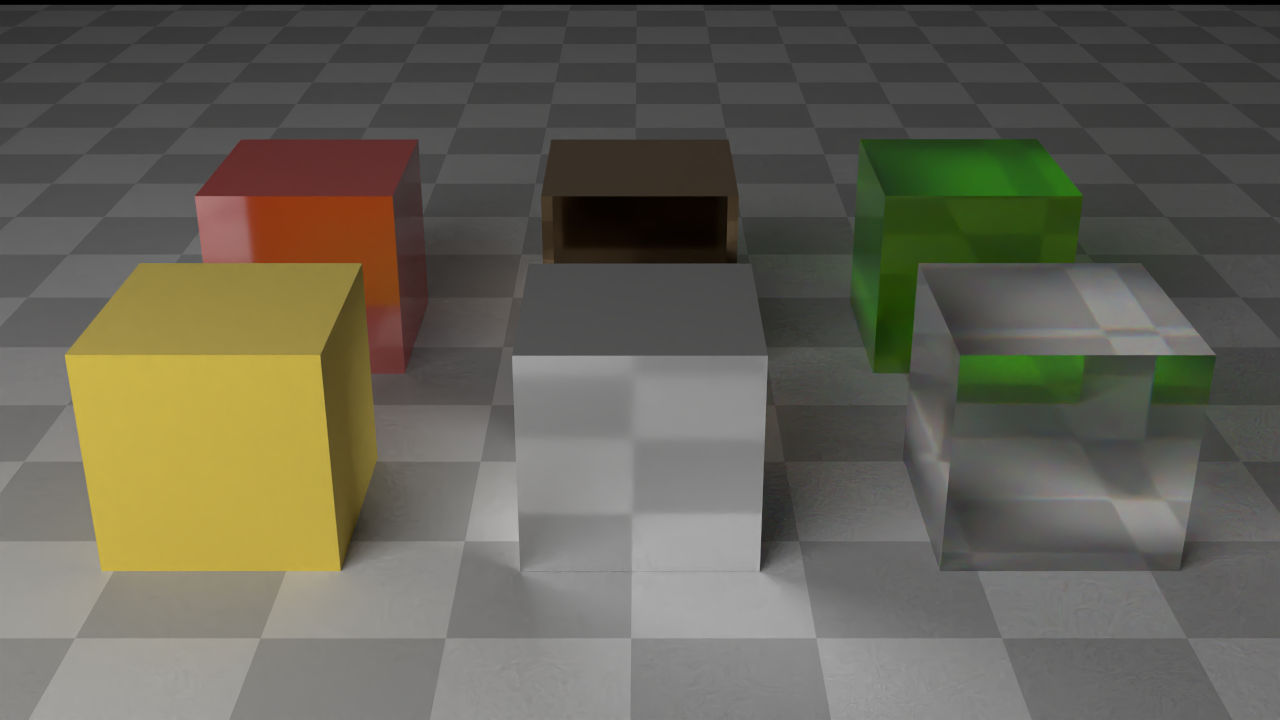
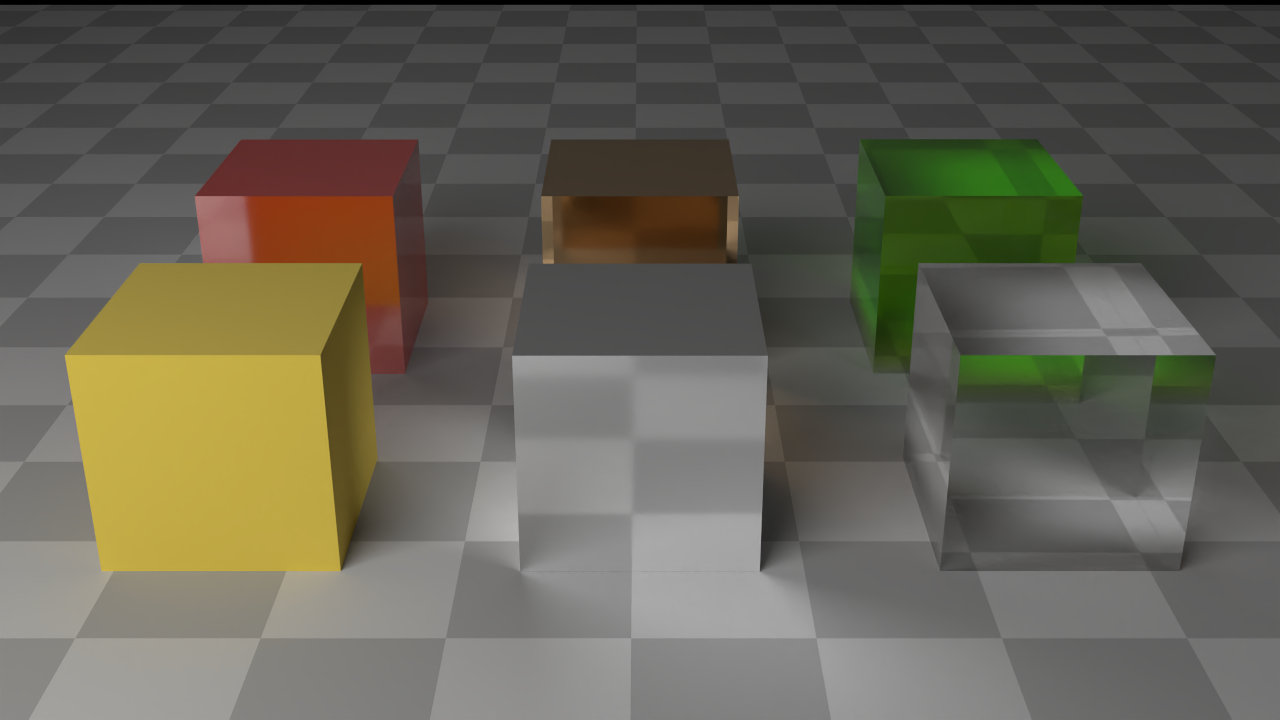
added radial anisotropy

Changed region(s): [[0.4062, 0.275, 0.5938, 0.3667]]

diff --git a/src/BRDF.cpp b/src/BRDF.cpp
@@ -138,7 +138,19 @@ float SmithIsotropicGGXShadowing(float alpha, float vsq, float vn)
   float lambda = (std::sqrt(1.0f + alpha * alpha * (vsq / (vn * vn) - 1.0f)) - 1.0f) * 0.5f;
   return 1.0f / (1.0f + lambda);
 }
-Vec3f sampleGGXVNDFGlobal(RNG& rng, const Vec3f& normal, float alpha, const Vec3f& dir1, float* pDensity)
+
+float DGGX(float nh, float th, float bh, float alpha_t, float alpha_b)
+{
+  float D = float(Hasty::InvPi) / (alpha_t * alpha_b * Hasty::square(Hasty::square(th / alpha_t) + Hasty::square(bh / alpha_b) + Hasty::square(nh)));
+  return D;
+}
+// "glass ground unknown"
+float smithGGX(float nv, float tv, float bv, float alpha_t, float alpha_b)
+{
+  float lambda = 0.5f * ( std::sqrt(1.0f + (square(alpha_t * tv) +square(alpha_b * bv))/square(nv))  - 1.0f);
+  return 1.0f / (1.0f + lambda);
+}
+Vec3f sampleGGXVNDFGlobal(RNG& rng, const Vec3f& normal, float alpha_t, float alpha_b, const Vec3f& tangent, const Vec3f& bitangent, const Vec3f& dir1, float* pDensity)
 {
   if (dir1.dot(normal) <= 0.0f)
   {
@@ -150,25 +162,23 @@ Vec3f sampleGGXVNDFGlobal(RNG& rng, const Vec3f& normal, float alpha, const Vec3
   Vec3f NeGlobal;
   do
   {
-    RodriguesRotation<float, Vec3f> rotation(Vec3f(0.0f, 0.0f, 1.0f), normal);
+    Vec3f Ve(tangent.dot(dir1), bitangent.dot(dir1), normal.dot(dir1));
+    Vec3f Ne = sampleGGXVNDF(Ve, alpha_t, alpha_b, rng.uniform01f(), rng.uniform01f());
 
-    Vec3f Ve = rotation.applyInverse(dir1);
-    Vec3f Ne = sampleGGXVNDF(Ve, alpha, alpha, rng.uniform01f(), rng.uniform01f());
-
-    NeGlobal = rotation * Ne;
+    NeGlobal = tangent * Ne[0] + bitangent * Ne[1] + normal * Ne[2];
     NeGlobal.normalize();
   } while (NeGlobal.dot(dir1) <= 0.0f);
 
   Vec3f dir2 = reflectAcross(dir1, NeGlobal);
   dir2.normalize();
   // V = dir1, N = H
-  float G1 = SmithIsotropicGGXShadowing(alpha, dir1.normSq(), dir1.dot(normal));
-  //assert(dir1.dot(NeGlobal) >= 0.0f);
-  float pDensityH = G1 * dir1.dot(NeGlobal) * DGGX(normal.dot(NeGlobal), alpha) / dir1.dot(normal);
+  float G1 = smithGGX(normal.dot(dir1), tangent.dot(dir1), bitangent.dot(dir1), alpha_t, alpha_b);
+  float D_ggx = DGGX(normal.dot(NeGlobal), tangent.dot(NeGlobal), bitangent.dot(NeGlobal), alpha_t, alpha_b);
+  float pDensityH = G1 * dir1.dot(NeGlobal) * D_ggx / dir1.dot(normal);
   (*pDensity) = pDensityH / (1e-7f + 4.0f * std::abs(dir1.dot(NeGlobal)));
   return dir2;
 }
-float sampleGGXVNDFGlobalDensity(const Vec3f& normal, float alpha, const Vec3f& dir1, const Vec3f& dir2)
+float sampleGGXVNDFGlobalDensity(const Vec3f& normal, float alpha_t, float alpha_b, const Vec3f& tangent, const Vec3f& bitangent, const Vec3f& dir1, const Vec3f& dir2)
 {
   if (dir1.dot(normal) <= 0.0f)
   {
@@ -176,8 +186,9 @@ float sampleGGXVNDFGlobalDensity(const Vec3f& normal, float alpha, const Vec3f& 
     return 0.0f;
   }
   Vec3f NeGlobal = (dir1 + dir2).normalized();
-  float G1 = SmithIsotropicGGXShadowing(alpha, dir1.normSq(), dir1.dot(normal));
-  float pDensityH = G1 * std::max(0.0f, dir1.dot(NeGlobal)) * DGGX(normal.dot(NeGlobal), alpha) / dir1.dot(normal);
+  float G1 = smithGGX(normal.dot(dir1), tangent.dot(dir1), bitangent.dot(dir1), alpha_t, alpha_b);
+  float D_ggx = DGGX(normal.dot(NeGlobal), tangent.dot(NeGlobal), bitangent.dot(NeGlobal), alpha_t, alpha_b);
+  float pDensityH = G1 * std::max(0.0f, dir1.dot(NeGlobal)) * D_ggx / dir1.dot(normal);
   return pDensityH / (1e-7f + 4.0f * std::abs(dir1.dot(NeGlobal)));
 }
 
@@ -403,8 +414,8 @@ float GlassBTDF::getIndexOfRefraction(int wavelength) const
 }
 
 
-PrincipledBRDF::PrincipledBRDF(std::unique_ptr<ITextureMap3f> albedo, std::unique_ptr<ITextureMap1f> roughness, std::unique_ptr<ITextureMap1f> metallic, float specular, float indexOfRefraction, std::unique_ptr<ITextureMap3f> normalMap)
-  :albedo(std::move(albedo)), roughness(std::move(roughness)), metallic(std::move(metallic)), specular(specular), IOR(indexOfRefraction), normalMap(std::move(normalMap))
+PrincipledBRDF::PrincipledBRDF(std::unique_ptr<ITextureMap3f> albedo, std::unique_ptr<ITextureMap1f> roughness, std::unique_ptr<ITextureMap1f> metallic, float specular, float indexOfRefraction, std::unique_ptr<ITextureMap3f> normalMap, float anisotropy)
+  :albedo(std::move(albedo)), roughness(std::move(roughness)), metallic(std::move(metallic)), specular(specular), IOR(indexOfRefraction), normalMap(std::move(normalMap)), anisotropy(anisotropy)
 {
 }
 PrincipledBRDF::~PrincipledBRDF()
@@ -450,6 +461,16 @@ void PrincipledBRDF::computeProbability(float metallicHit, float* diffSpecMix, f
   *diffSpecMix = std::min(1.0f - metallicHit, 1.0f - 0.5f * specular); // we want this to be zero when metallic and one when specular = 0
   *pProbablitySpec = 1.0f - *diffSpecMix;
 }
+void PrincipledBRDF::computeAnisotropyParameters(const SurfaceInteraction &interaction, const Vec3f& normalShading, float alpha, float &alpha_t, float &alpha_b, Vec3f &tangent, Vec3f &bitangent)
+{
+  float aspect = std::sqrt(1.0f - 0.9f * anisotropy);
+  alpha_t = alpha / aspect;
+  alpha_b = alpha * aspect;
+  RodriguesRotation<float, Vec3f> rotation(interaction.normalGeometric, normalShading);
+  tangent = rotation * interaction.tangent;
+  bitangent = rotation * interaction.bitangent;
+}
+
 MaterialEvalResult PrincipledBRDF::evaluate(const SurfaceInteraction& interaction, const Vec3f& wo, const Vec3f& wi, float indexOfRefractionOutside, bool adjoint, ShaderEvalFlag evalFlag)
 {
   // There are two things to consider: leakage which we are trying to prevent with the statement above
@@ -497,18 +518,27 @@ MaterialEvalResult PrincipledBRDF::evaluate(const SurfaceInteraction& interactio
     Vec3f FH = F0 + (Vec3f::Ones() - F0) * powci<5>(1.0f - lh); // here if we are at a grazing angle, we  remove some F0, and add some "achromatic" reflectance (Vec3f::ones)
 
     float nh = normalShading.dot(h);
+    
+    float alpha_t, alpha_b;
+    Vec3f tangent, bitangent;
+    computeAnisotropyParameters(interaction, normalShading, alpha, alpha_t, alpha_b, tangent, bitangent);
 
     float nv = std::abs(normalShading.dot(wo));
     float nl = std::abs(normalShading.dot(wi));
-    float G2 = 2.0f * (nv * nl) / ( 1e-7f +  nv * std::sqrt(alpha * alpha + (1.0f - alpha * alpha) * nl * nl) + nl * std::sqrt(alpha * alpha + (1.0f - alpha * alpha) * nv * nv));
+    float Go = smithGGX(nv, tangent.dot(wo), bitangent.dot(wo), alpha_t, alpha_b);
+    float Gi = smithGGX(nl, tangent.dot(wi), bitangent.dot(wi), alpha_t, alpha_b);
+    float G = Go * Gi;
     
-    float D_ggx = DGGX(nh, alpha);
+    float D_ggx;
 
     if (alpha == 0.0f)
     {
-      if (std::abs(std::abs(nh) - 1.0f) < 1e-6f) // D_GGX explodes for alpha= 0 and nh = 1, but we know that the integral of D should be 1, it acts as a dirac distribution, and D is zero when nh != 1
+      if (std::abs(std::abs(nh) - 1.0f) < 1e-3f) // D_GGX explodes for alpha= 0 and nh = 1
       {
-        D_ggx = 1.0f;
+        // we can find this by using importance sample formula and then let alpha go to zero?, G is always 1 in that case
+        // => \int F D G/ (4 nv nl) dl ~= 1/N \sum_i  F D Gi Go/ (4 nv nl_i  p(l_i) )
+        //           ~= 1/N \sum_i  F / nv ~=   F / nv for alpha = 0
+        D_ggx = 4.0f * nl;
       }
       else
       {
@@ -517,10 +547,10 @@ MaterialEvalResult PrincipledBRDF::evaluate(const SurfaceInteraction& interactio
     }
     else
     {
-      D_ggx = DGGX(nh, alpha);
+      D_ggx = DGGX(nh, tangent.dot(h), bitangent.dot(h), alpha_t, alpha_b);
     }
 
-    result.fSpecular = FH * (D_ggx * G2 * normalScale / std::abs(1e-7f + 4.0f * normalShading.dot(wo) * normalShading.dot(wi)) * (1.0f - diffuseSpecMix));
+    result.fSpecular = FH * (D_ggx * G * normalScale / std::abs(1e-7f + 4.0f * nv * nl) * (1.0f - diffuseSpecMix));
   }
   assertFinite(result.fDiffuse);
   assertFinite(result.fSpecular);
@@ -629,7 +659,10 @@ SampleResult PrincipledBRDF::sample(RNG& rng, const SurfaceInteraction& interact
     }
     else
     {
-      float pdfSpec = sampleGGXVNDFGlobalDensity(normalShading, alpha, wOut, result.direction);
+      float alpha_t, alpha_b;
+      Vec3f tangent, bitangent;
+      computeAnisotropyParameters(interaction, normalShading, alpha, alpha_t, alpha_b, tangent, bitangent);
+      float pdfSpec = sampleGGXVNDFGlobalDensity(normalShading, alpha_t, alpha_b, tangent, bitangent, wOut, result.direction);
       result.pdfOmega = pSpecularStrategy * pdfSpec + (1.0f - pSpecularStrategy) * pdfDiffuse;
       if (result.pdfOmega == 0.0f) { std::cout << "error3 density 0 " << pSpecularStrategy << ' ' << pdfSpec << ' ' << pdfDiffuse << std::endl; }
       MaterialEvalResult evalResult = this->evaluate(interaction, wOut, result.direction, outsideIOR, adjoint, ShaderEvalFlag::ALL);
@@ -685,7 +718,10 @@ Vec3f PrincipledBRDF::sampleSpecular(RNG& rng, const SurfaceInteraction& interac
   }
   else
   {
-    Vec3f direction2 = sampleGGXVNDFGlobal(rng, normalShading, alpha, wOut, pDensity);
+    float alpha_t, alpha_b;
+    Vec3f tangent, bitangent;
+    computeAnisotropyParameters(interaction, normalShading, alpha, alpha_t, alpha_b, tangent, bitangent);
+    Vec3f direction2 = sampleGGXVNDFGlobal(rng, normalShading, alpha_t, alpha_b, tangent, bitangent, wOut, pDensity);
     MaterialEvalResult evalResult = this->evaluate(interaction, wOut, direction2, outsideIOR, adjoint, ShaderEvalFlag::SPECULAR);
     float mp = cosTerm(wOut, direction2, interaction.normalGeometric, normalShading, adjoint) / (*pDensity);
     (*throughputDiffuse) = evalResult.fDiffuse * mp;
@@ -722,7 +758,10 @@ float PrincipledBRDF::evaluateSamplePDF(const SurfaceInteraction &interaction, c
   }
   else
   {
-    float pdfSpec = sampleGGXVNDFGlobalDensity(normalShading, alpha, wo, wi);
+    float alpha_t, alpha_b;
+    Vec3f tangent, bitangent;
+    computeAnisotropyParameters(interaction, normalShading, alpha, alpha_t, alpha_b, tangent, bitangent);
+    float pdfSpec = sampleGGXVNDFGlobalDensity(normalShading, alpha_t, alpha_b, tangent, bitangent, wo, wi);
     float pdfDiffuse = evaluateHemisphereCosImportancePDF(normalShading, wi);
     float samplePd = pSpecularStrategy * pdfSpec + (1.0f - pSpecularStrategy) * pdfDiffuse;
     assertFinite(samplePd);

diff --git a/include/Hasty/BRDF.h b/include/Hasty/BRDF.h
@@ -23,11 +23,6 @@ float fresnelDielectric(float cos_i, float cos_t, float indexOfRefraction_i, flo
 Vec3f sampleDGGX(RNG& rng, const Vec3f& normal, float alpha, const Vec3f& dir1, float* pDensity);
 float sampleDGGXDensity(const Vec3f& normal, float alpha, const Vec3f& dir1, const Vec3f& dir2);
 
-float DGGX(float nh, float alpha);
-
-Vec3f sampleGGXVNDFGlobal(RNG& rng, const Vec3f& normal, float alpha, const Vec3f& dir1, float* pDensity);
-float sampleGGXVNDFGlobalDensity(const Vec3f& normal, float alpha, const Vec3f& dir1, const Vec3f& dir2);
-
 enum class ShaderEvalFlag
 {
   NONE = 0,
@@ -123,7 +118,7 @@ class PrincipledBRDF final : public BXDF
 {
 public:
 
-  PrincipledBRDF(std::unique_ptr<ITextureMap3f> albedo, std::unique_ptr<ITextureMap1f> roughness, std::unique_ptr<ITextureMap1f> metallic, float specular, float indexOfRefraction, std::unique_ptr<ITextureMap3f> normalMap);
+  PrincipledBRDF(std::unique_ptr<ITextureMap3f> albedo, std::unique_ptr<ITextureMap1f> roughness, std::unique_ptr<ITextureMap1f> metallic, float specular, float indexOfRefraction, std::unique_ptr<ITextureMap3f> normalMap, float anisotropy);
   ~PrincipledBRDF();
 
   float getIndexOfRefraction(int wavelength) const { return 1.0f; }
@@ -132,6 +127,7 @@ public:
   Vec3f getShadingNormal(const SurfaceInteraction& interaction, const Vec3f& wo);
   float computeAlpha(float roughness);
   void computeProbability(float metallicHit, float* diffSpecMix, float* pProbablitySpec);
+  void computeAnisotropyParameters(const SurfaceInteraction& interaction, const Vec3f& normalShading, float alpha, float &alpha_t, float &alpha_b, Vec3f& tangent, Vec3f& bitangent);
   MaterialEvalResult evaluate(const SurfaceInteraction& interaction, const Vec3f& wo, const Vec3f& wi, float indexOfRefractionOutside, bool adjoint, ShaderEvalFlag evalFlag);
   SampleResult sample(RNG& rng, const SurfaceInteraction& interaction, const LightRayInfo& lightRay, const Vec3f& wOut, OutsideIORFunctor getOutsideIOR, bool adjoint, ShaderEvalFlag evalFlag);
   Vec3f sampleSpecular(RNG& rng, const SurfaceInteraction& interaction, const LightRayInfo& lightRay, const Vec3f& wOut, OutsideIORFunctor getOutsideIOR, bool adjoint, Vec3f* throughputDiffuse, Vec3f* throughputSpecular, float* pDensity, bool *outside);
@@ -144,6 +140,7 @@ private:
   float specular;
   float IOR;
   std::unique_ptr<ITextureMap3f> normalMap;
+  float anisotropy;
 };
 
 }

diff --git a/src/Scene.cpp b/src/Scene.cpp
@@ -116,7 +116,7 @@ Scene::Scene(std::filesystem::path inputfilePath)
         metallicTexture = std::make_unique<ConstantTexture1f>(metallic);
       }
 
-      m_brdfs.emplace_back(std::make_unique<PrincipledBRDF>(std::move(albedoTexture), std::move(roughnessTexture) , std::move(metallicTexture), material.specular[0], material.ior, std::move(normalMap)));
+      m_brdfs.emplace_back(std::make_unique<PrincipledBRDF>(std::move(albedoTexture), std::move(roughnessTexture) , std::move(metallicTexture), material.specular[0], material.ior, std::move(normalMap), material.anisotropy));
     }
   }
 
@@ -248,13 +248,11 @@ SurfaceInteraction Scene::getInteraction(unsigned int geomID, unsigned int primI
   {
     std::array<Vec2f, 3>& uv = uvOptional.value();
     interaction.uv = uv[0] * barycentricCoordinates[0] + uv[1] * barycentricCoordinates[1] + uv[2] * barycentricCoordinates[2];
-    Vec3f dpdu, dpdv;
-    computeUVMapTriangleDerivative(xv, uv, dpdu, dpdv);
-    interaction.tangent = dpdu.normalized();
-    interaction.bitangent = dpdv.normalized();
-    orthonormalize(interaction.tangent, interaction.bitangent);
   }
 
+  interaction.tangent = Vec3f(-interaction.x[2], 0.0f, interaction.x[0]);
+  interaction.tangent = orthonormalized(interaction.normalGeometric, interaction.tangent);
+  interaction.bitangent = interaction.normalGeometric.cross(interaction.tangent);
 
   return interaction;
 }

diff --git a/include/Hasty/VMath.h b/include/Hasty/VMath.h
@@ -453,9 +453,33 @@ private:
   std::array<float, 4> m_data;
 };
 
-inline Vec3f orthonormalize(const Vec3f& v1Normalized, const Vec3f& v2)
+inline Vec3f orthonormalized(const Vec3f& v1Normalized, const Vec3f& v2);
+
+inline Vec3f anyOrthogonal(const Vec3f& v1Normalized)
 {
-  return (v2 - v2.dot(v1Normalized) * v1Normalized).normalized();
+  if (v1Normalized[0] < 0.7f)
+  {
+    return orthonormalized(v1Normalized, Vec3f(1.0f, 0.0f, 0.0f));
+  }
+  else
+  {
+    return orthonormalized(v1Normalized, Vec3f(0.0f, 1.0f, 0.0f));
+  }
+}
+
+inline Vec3f orthonormalized(const Vec3f& v1Normalized, const Vec3f& v2)
+{
+  Vec3f result = v2 - v2.dot(v1Normalized) * v1Normalized;
+  float length = result.norm();
+  if (length < 1e-5f)
+  {
+    result = anyOrthogonal(v1Normalized);
+  }
+  else
+  {
+    result /= length;
+  }
+  return result;
 }
 
 template<class ScalarType, class VectorType>
